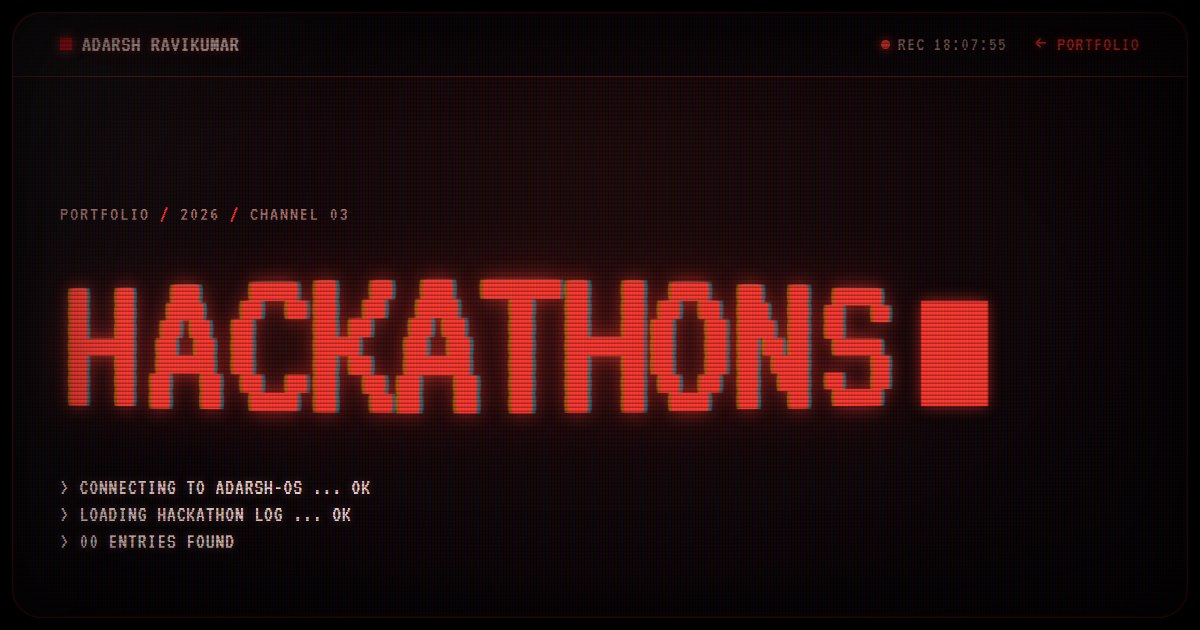
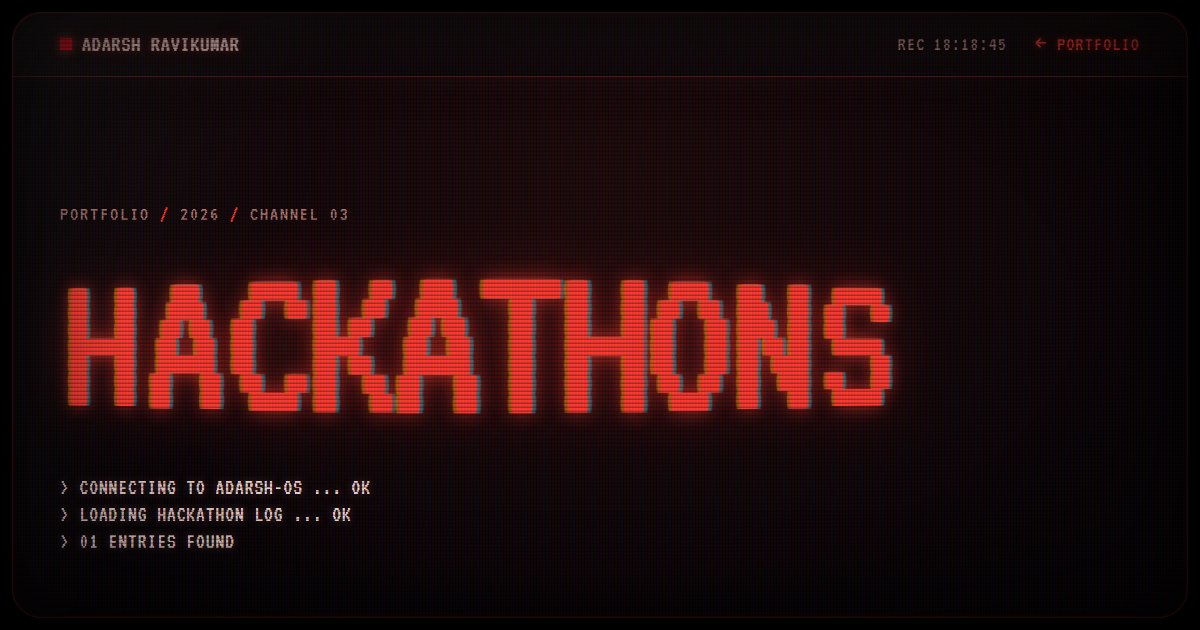
Add Medicine Buddy to the hackathon log
- First hackathon entry: Robotics Carnival, Leukerbad (EIII), with demo video, code link and seven photos
- Updated hackathons link-preview image

Changed region(s): [[0.74, 0.4524, 0.8325, 0.6635], [0.8017, 0.0603, 0.8325, 0.0905], [0.7092, 0.0603, 0.74, 0.0905]]

diff --git a/hackathons.html b/hackathons.html
@@ -23,7 +23,7 @@
 <link rel="preconnect" href="https://fonts.googleapis.com" />
 <link rel="preconnect" href="https://fonts.gstatic.com" crossorigin />
 <link href="https://fonts.googleapis.com/css2?family=IBM+Plex+Mono:wght@400;500&family=VT323&display=swap" rel="stylesheet" />
-<link rel="stylesheet" href="hackathons.css?v=2" />
+<link rel="stylesheet" href="hackathons.css?v=5" />
 </head>
 <body>
 
@@ -107,12 +107,50 @@
                 <p class="log-place">City · Organiser</p>
                 <p class="log-text">What you built, with whom, and what your part was.</p>
                 <div class="gallery">
-                  <figure><button class="gallery-item" type="button"><img src="assets/img/hack-name-1.jpg" alt="Describe the photo" loading="lazy" /></button><figcaption>Caption</figcaption></figure>
+                <figure><button class="gallery-item" type="button"><img src="assets/img/hack-name-1.jpg" alt="Describe the photo" loading="lazy" /></button><figcaption>Caption</figcaption></figure>
                 </div>
               </article>
             -->
 
-            <p class="log-empty">&gt; No entries yet. First log coming soon<span class="cursor" aria-hidden="true"></span></p>
+            <article class="log-entry" id="medicine-buddy">
+              <div class="log-head">
+                <span class="log-id">Log 01</span>
+                <span class="log-date">Nov 2026</span>
+                <span class="log-track">Elderly Care &amp; Rehabilitation</span>
+              </div>
+              <h3>Medicine Buddy</h3>
+              <p class="log-place">Robotics Carnival · Leukerbad · EIII</p>
+
+              <div class="log-body">
+                <p class="log-text">The challenge: how can robots help older people live safely and independently at home? According to the WHO, only about half of people with a chronic illness take their medicines as prescribed. For someone living alone with poor eyesight, a missed dose can mean a hospital visit, and pill boxes are famously terrible at conversation.</p>
+                <p class="log-text">So we built Medicine Buddy, a voice-first home assistant made of two connected robots:</p>
+                <ul class="log-list">
+                  <li><strong>A Reachy Mini you talk to.</strong> You set up your medicines by voice and it reminds you at the right time, even mid-conversation. It reads labels and letters aloud, alerts family if a dose is missed, and saves grandparents' stories and recipes for the grandchildren.</li>
+                  <li><strong>A Maker Arm with two cameras</strong> that finds the right pill from a text description and places it in your hand, so you never have to read a label yourself.</li>
+                </ul>
+                <p class="log-text">Tests passing, robots crashing, and a Wi-Fi network with other plans. We kept at it and had it all working when it mattered.</p>
+                <p class="log-team"><span>Team</span> Tommaso Sommaruga, Orhun Efe Çiloğlu, Gaëtan Rukundo Bracke, Hamdi Kerem Işık and me. Hardware from NormaCore and Pollen Robotics.</p>
+              </div>
+
+              <div class="log-video">
+                <iframe src="https://www.youtube-nocookie.com/embed/vsHM2_IKy6Y" title="Medicine Buddy demo video" loading="lazy" allow="accelerometer; clipboard-write; encrypted-media; gyroscope; picture-in-picture; web-share" referrerpolicy="strict-origin-when-cross-origin" allowfullscreen></iframe>
+              </div>
+
+              <div class="log-links">
+                <a href="https://youtu.be/vsHM2_IKy6Y" target="_blank" rel="noopener">▶ Watch the demo</a>
+                <a href="https://github.com/tommasosommaruga/LosPollosForTheElders" target="_blank" rel="noopener">&lt;/&gt; Code on GitHub</a>
+              </div>
+
+              <div class="gallery">
+                <figure><button class="gallery-item" type="button"><img src="assets/img/hack-medbuddy-1.jpg" alt="Snow-dusted peaks and low cloud above the chalets of Leukerbad" loading="lazy" /></button><figcaption>Leukerbad, under the clouds</figcaption></figure>
+                <figure><button class="gallery-item" type="button"><img src="assets/img/hack-medbuddy-2.jpg" alt="Teammates assembling Reachy Mini and Maker Arm parts at a long workbench" loading="lazy" /></button><figcaption>Assembling the robots</figcaption></figure>
+                <figure><button class="gallery-item" type="button"><img src="assets/img/hack-medbuddy-3.jpg" alt="Reachy Mini on the table next to a laptop running its control app" loading="lazy" /></button><figcaption>Reachy Mini and its control app</figcaption></figure>
+                <figure><button class="gallery-item" type="button"><img src="assets/img/hack-medbuddy-4.jpg" alt="The Maker Arm beside a calibration checkerboard and a few test pills, with Reachy Mini behind" loading="lazy" /></button><figcaption>The Maker Arm and the pills</figcaption></figure>
+                <figure><button class="gallery-item" type="button"><img src="assets/img/hack-medbuddy-5.jpg" alt="Team members asleep in sleeping bags on the steps beside a squash court" loading="lazy" /></button><figcaption>Lights out by the squash court</figcaption></figure>
+                <figure><button class="gallery-item" type="button"><img src="assets/img/hack-medbuddy-6.jpg" alt="Adarsh crouching with a small EIII humanoid robot" loading="lazy" /></button><figcaption>Meeting the EIII humanoid</figcaption></figure>
+                <figure><button class="gallery-item" type="button"><img src="assets/img/hack-medbuddy-7.jpg" alt="Title slide from the demo: Medicine Buddy, a companion that remembers" loading="lazy" /></button><figcaption>A companion that remembers</figcaption></figure>
+              </div>
+            </article>
 
           </div>
         </div>

diff --git a/hackathons.css b/hackathons.css
@@ -401,6 +401,87 @@ p { margin: 0; }
   max-width: 62ch;
 }
 
+.log-track {
+  margin-left: auto;
+  color: var(--text);
+}
+
+.log-body { max-width: 62ch; }
+
+.log-list {
+  margin: 14px 0 0;
+  padding: 0;
+  list-style: none;
+}
+
+.log-list li {
+  position: relative;
+  padding-left: 22px;
+  margin-bottom: 10px;
+}
+
+.log-list li::before {
+  content: ">";
+  position: absolute;
+  left: 0;
+  color: var(--phos);
+  text-shadow: var(--glow);
+}
+
+.log-list strong { font-weight: 500; color: #fff; }
+
+.log-team {
+  margin-top: 18px;
+  font-size: .88rem;
+  color: var(--dim);
+}
+
+.log-team span {
+  margin-right: 8px;
+  font-family: var(--display);
+  font-size: 1.15rem;
+  letter-spacing: .08em;
+  text-transform: uppercase;
+  color: var(--phos);
+}
+
+.log-video {
+  position: relative;
+  margin-top: 28px;
+  aspect-ratio: 16 / 9;
+  background: #000;
+  border: 1px solid var(--rule);
+  box-shadow: 0 0 28px rgba(255, 58, 45, .18);
+}
+
+.log-video iframe {
+  position: absolute;
+  inset: 0;
+  width: 100%;
+  height: 100%;
+  border: 0;
+}
+
+.log-links {
+  display: flex;
+  flex-wrap: wrap;
+  gap: 12px 28px;
+  margin-top: 20px;
+  font-family: var(--display);
+  font-size: 1.35rem;
+  letter-spacing: .06em;
+  text-transform: uppercase;
+}
+
+.log-links a {
+  text-decoration: none;
+  color: var(--phos);
+  text-shadow: var(--glow);
+  border-bottom: 1px solid var(--rule);
+}
+
+.log-links a:hover { color: #fff; border-bottom-color: #fff; }
+
 .log-empty {
   padding: 28px 0;
   border-bottom: 1px solid var(--rule);
@@ -442,6 +523,15 @@ p { margin: 0; }
   object-fit: cover;
   filter: saturate(.85) contrast(1.1) brightness(.95);
 }
+
+/* keep the subject in frame when tall photos are cropped to 4:3 */
+#medicine-buddy .gallery figure:nth-child(1) img { object-position: 50% 48%; }
+#medicine-buddy .gallery figure:nth-child(4) img { object-position: 50% 52%; }
+#medicine-buddy .gallery figure:nth-child(6) img { object-position: 50% 32%; }
+
+/* the demo's title slide: show it whole rather than cropping through the text */
+#medicine-buddy .gallery figure:nth-child(7) .gallery-item { background: #fdf3df; }
+#medicine-buddy .gallery figure:nth-child(7) img { object-fit: contain; filter: none; }
 
 .gallery figcaption {
   margin-top: 8px;
@@ -678,6 +768,8 @@ p { margin: 0; }
   .boot { font-size: 1.15rem; }
 
   .log-result { margin-left: 0; }
+
+  .log-track { margin-left: 0; flex-basis: 100%; }
 
   .log-empty { font-size: 1.25rem; }
 
